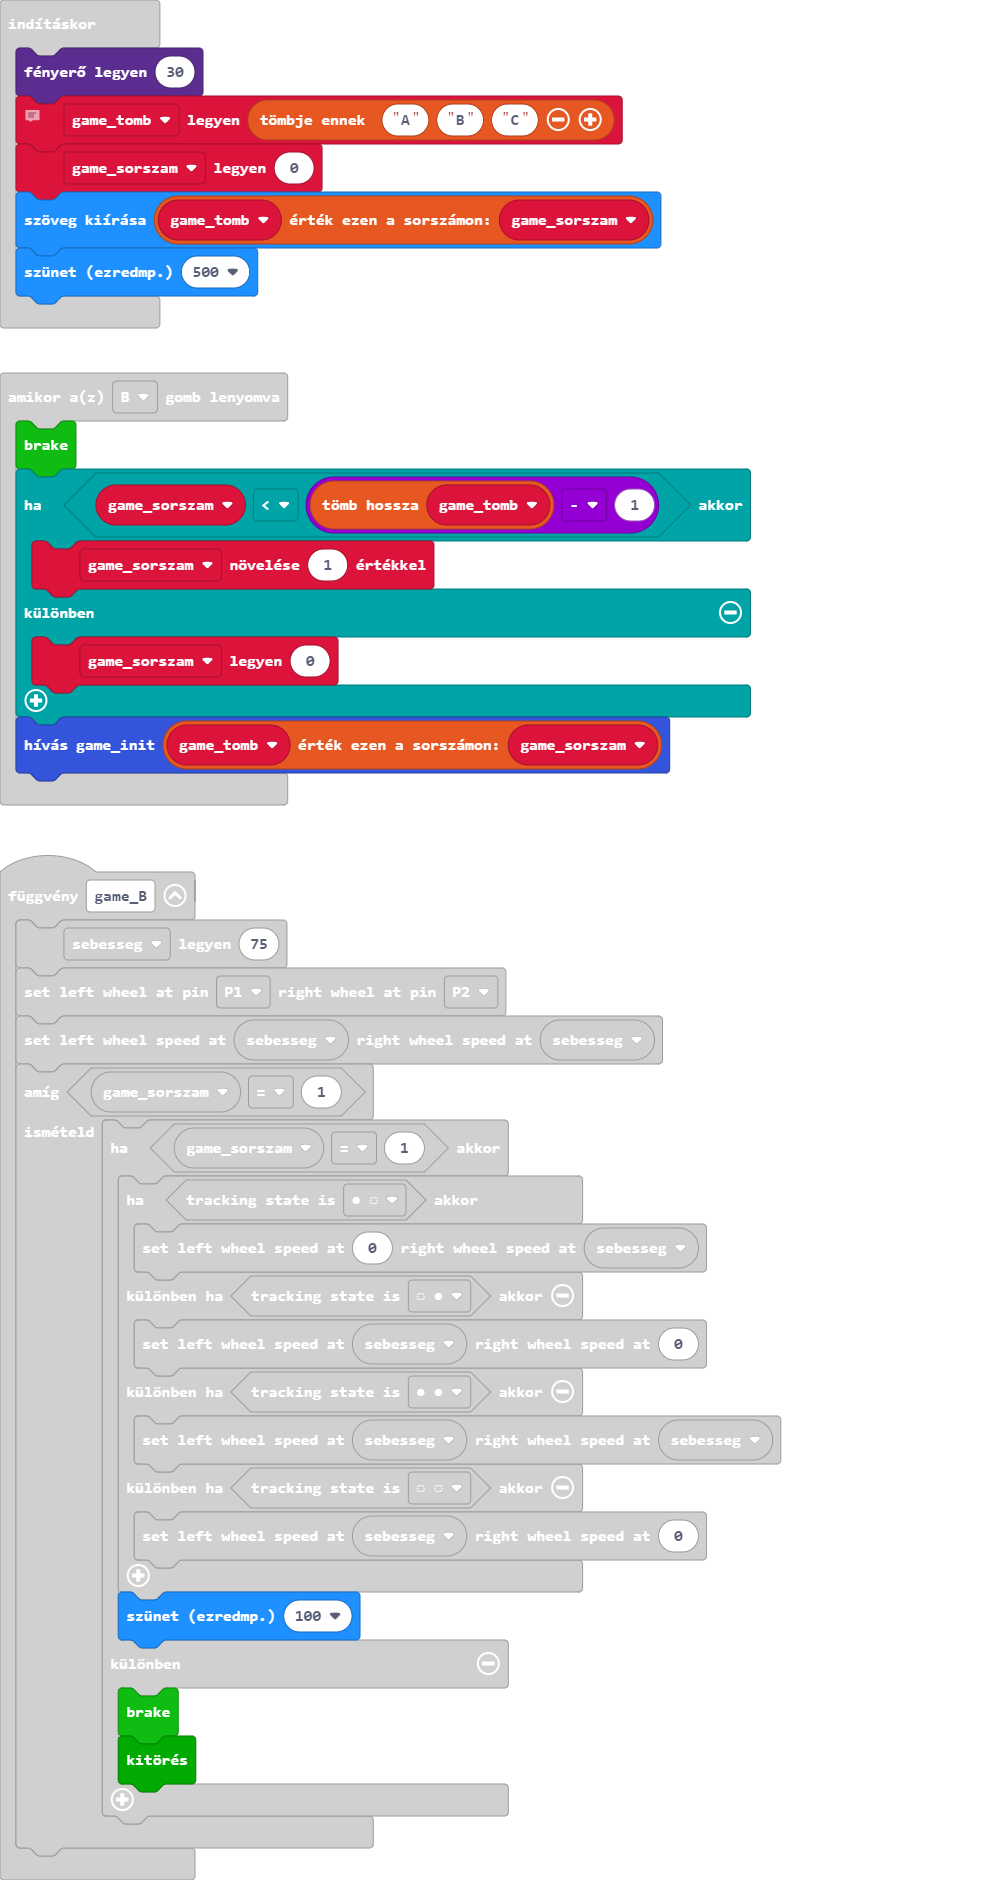
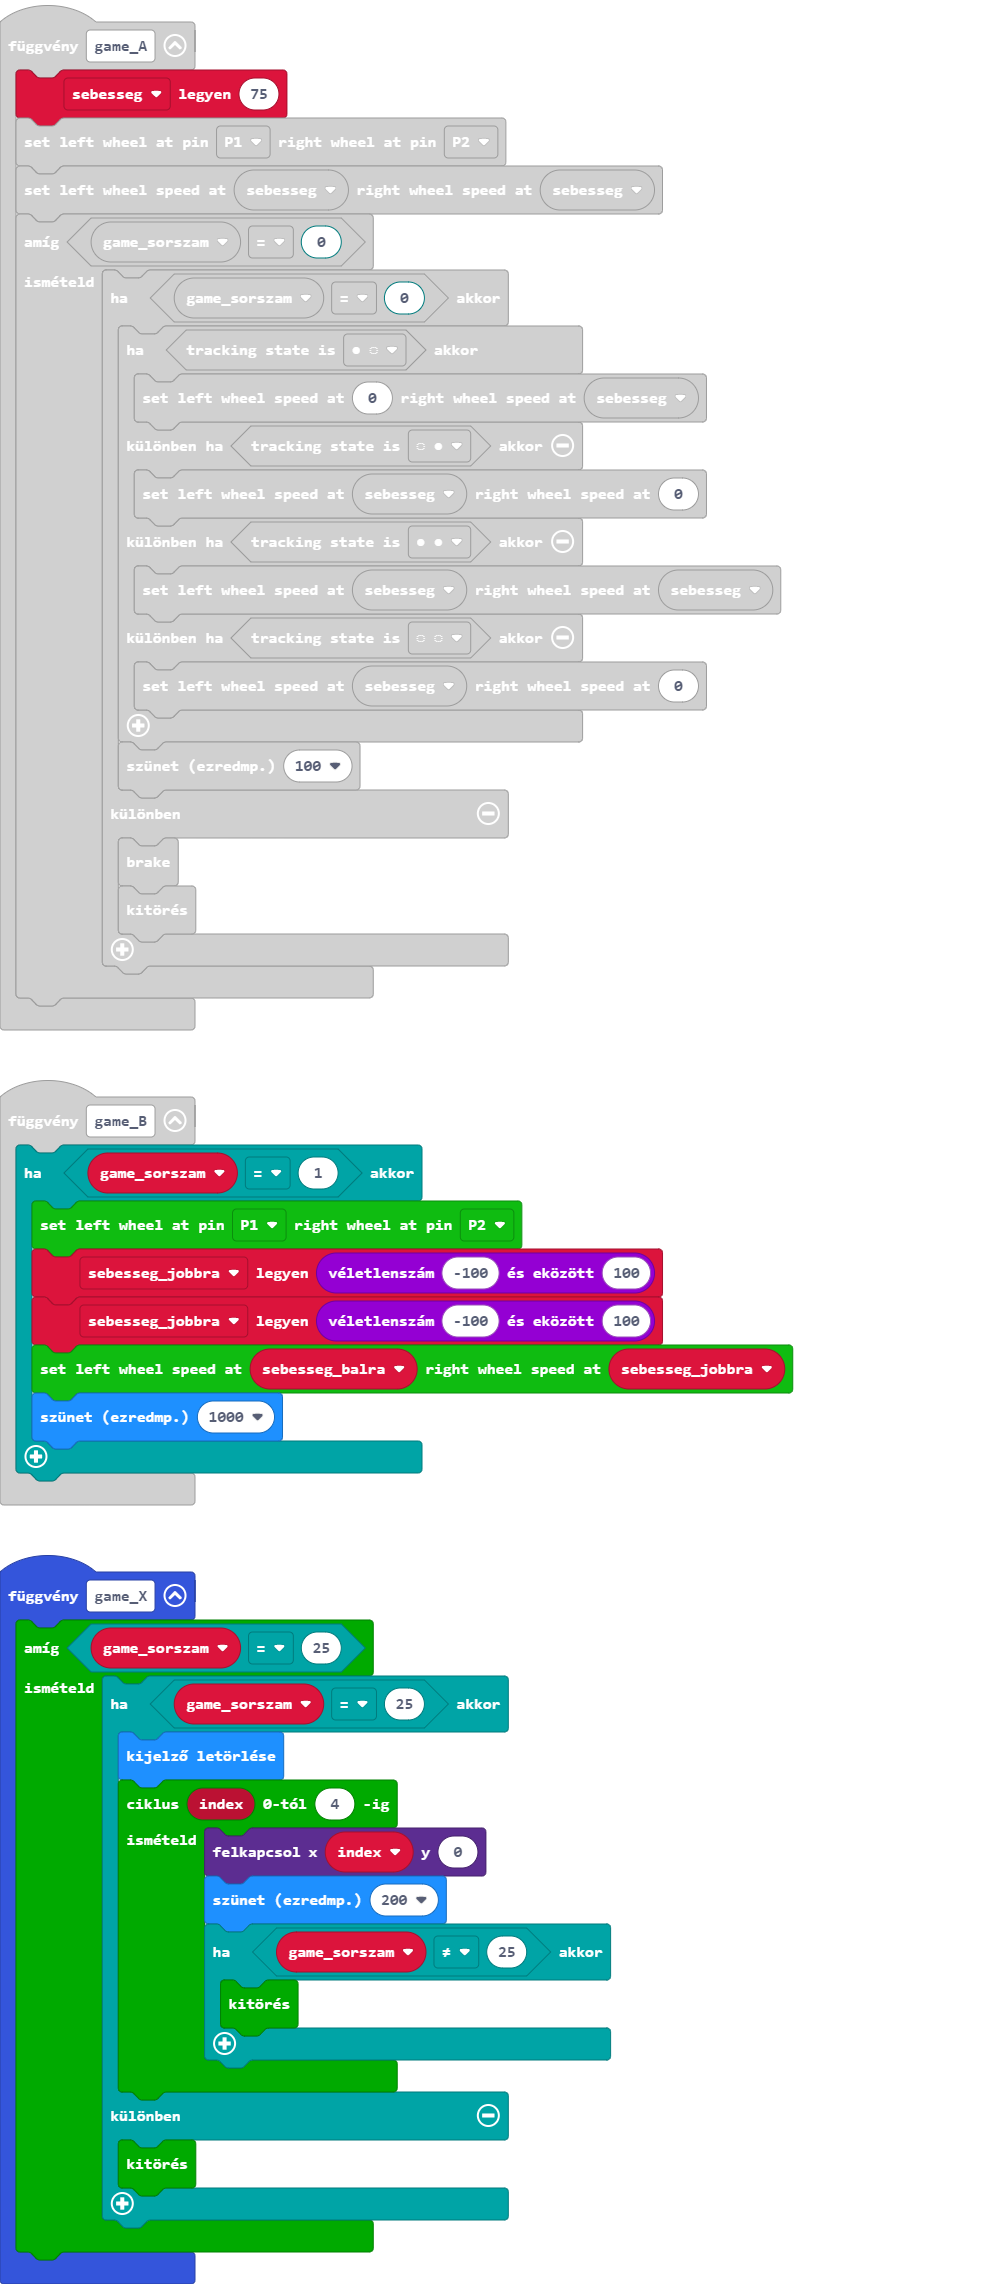
Update pxt.json, main.blocks, main.ts

diff --git a/main.ts b/main.ts
@@ -9,17 +9,23 @@ input.onButtonPressed(Button.A, function () {
     game_init(game_tomb[game_sorszam])
 })
 function game_A () {
+    sebesseg = 75
+    RingbitCar.init_wheel(AnalogPin.P1, AnalogPin.P2)
+    RingbitCar.freestyle(sebesseg, sebesseg)
     while (game_sorszam == 0) {
         if (game_sorszam == 0) {
-            basic.clearScreen()
-            for (let index = 0; index <= 4; index++) {
-                led.plot(index, 0)
-                basic.pause(200)
-                if (game_sorszam != 0) {
-                    break;
-                }
+            if (RingbitCar.tracking(RingbitCar.TrackingStateType.Tracking_State_1)) {
+                RingbitCar.freestyle(0, sebesseg)
+            } else if (RingbitCar.tracking(RingbitCar.TrackingStateType.Tracking_State_2)) {
+                RingbitCar.freestyle(sebesseg, 0)
+            } else if (RingbitCar.tracking(RingbitCar.TrackingStateType.Tracking_State_0)) {
+                RingbitCar.freestyle(sebesseg, sebesseg)
+            } else if (RingbitCar.tracking(RingbitCar.TrackingStateType.Tracking_State_3)) {
+                RingbitCar.freestyle(sebesseg, 0)
             }
+            basic.pause(100)
         } else {
+            RingbitCar.brake()
             break;
         }
     }
@@ -41,6 +47,22 @@ function game_C () {
         basic.pause(500)
     }
 }
+function game_X () {
+    while (game_sorszam == 25) {
+        if (game_sorszam == 25) {
+            basic.clearScreen()
+            for (let index = 0; index <= 4; index++) {
+                led.plot(index, 0)
+                basic.pause(200)
+                if (game_sorszam != 25) {
+                    break;
+                }
+            }
+        } else {
+            break;
+        }
+    }
+}
 input.onButtonPressed(Button.AB, function () {
     control.reset()
 })
@@ -54,27 +76,16 @@ input.onButtonPressed(Button.B, function () {
     game_init(game_tomb[game_sorszam])
 })
 function game_B () {
-    sebesseg = 75
-    RingbitCar.init_wheel(AnalogPin.P1, AnalogPin.P2)
-    RingbitCar.freestyle(sebesseg, sebesseg)
-    while (game_sorszam == 1) {
-        if (game_sorszam == 1) {
-            if (RingbitCar.tracking(RingbitCar.TrackingStateType.Tracking_State_1)) {
-                RingbitCar.freestyle(0, sebesseg)
-            } else if (RingbitCar.tracking(RingbitCar.TrackingStateType.Tracking_State_2)) {
-                RingbitCar.freestyle(sebesseg, 0)
-            } else if (RingbitCar.tracking(RingbitCar.TrackingStateType.Tracking_State_0)) {
-                RingbitCar.freestyle(sebesseg, sebesseg)
-            } else if (RingbitCar.tracking(RingbitCar.TrackingStateType.Tracking_State_3)) {
-                RingbitCar.freestyle(sebesseg, 0)
-            }
-            basic.pause(100)
-        } else {
-            RingbitCar.brake()
-            break;
-        }
+    if (game_sorszam == 1) {
+        let sebesseg_balra = 0
+        RingbitCar.init_wheel(AnalogPin.P1, AnalogPin.P2)
+        sebesseg_jobbra = randint(-100, 100)
+        sebesseg_jobbra = randint(-100, 100)
+        RingbitCar.freestyle(sebesseg_balra, sebesseg_jobbra)
+        basic.pause(1000)
     }
 }
+let sebesseg_jobbra = 0
 let sebesseg = 0
 let game_sorszam = 0
 let game_tomb: string[] = []
